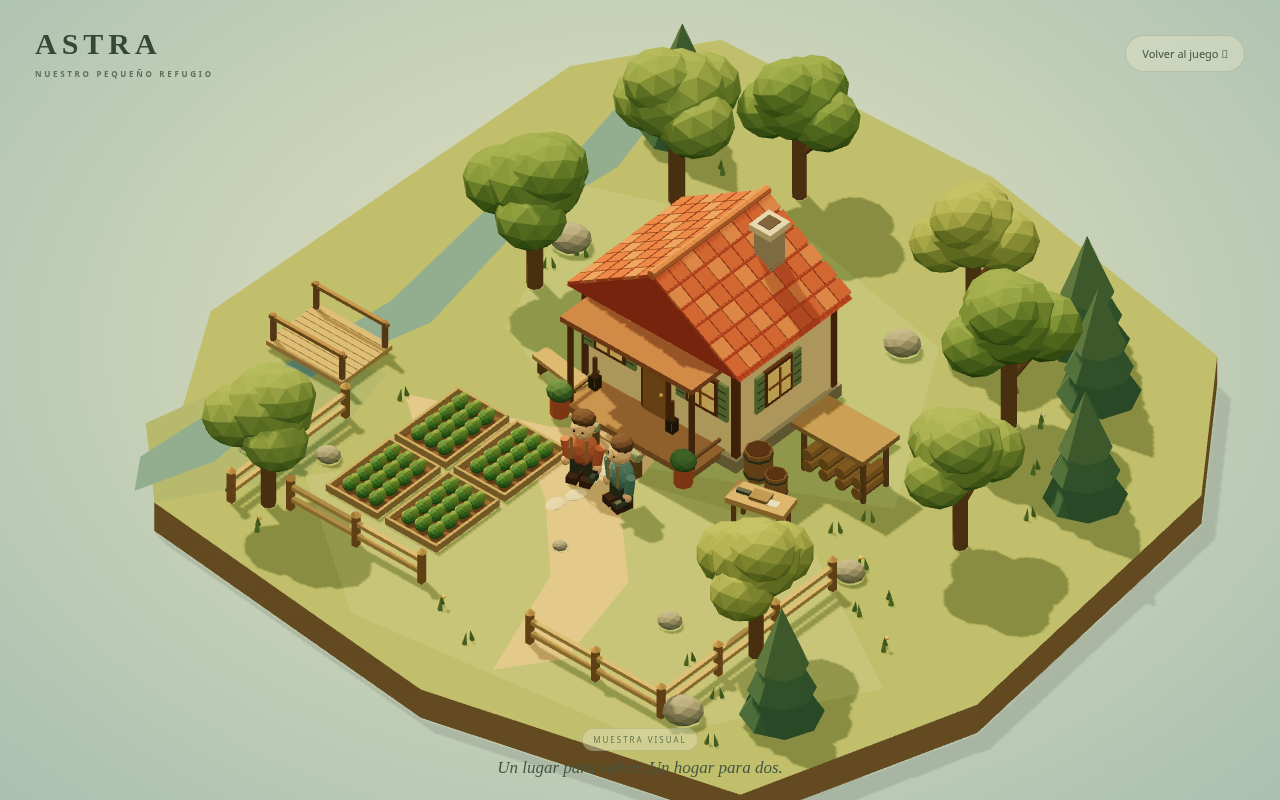
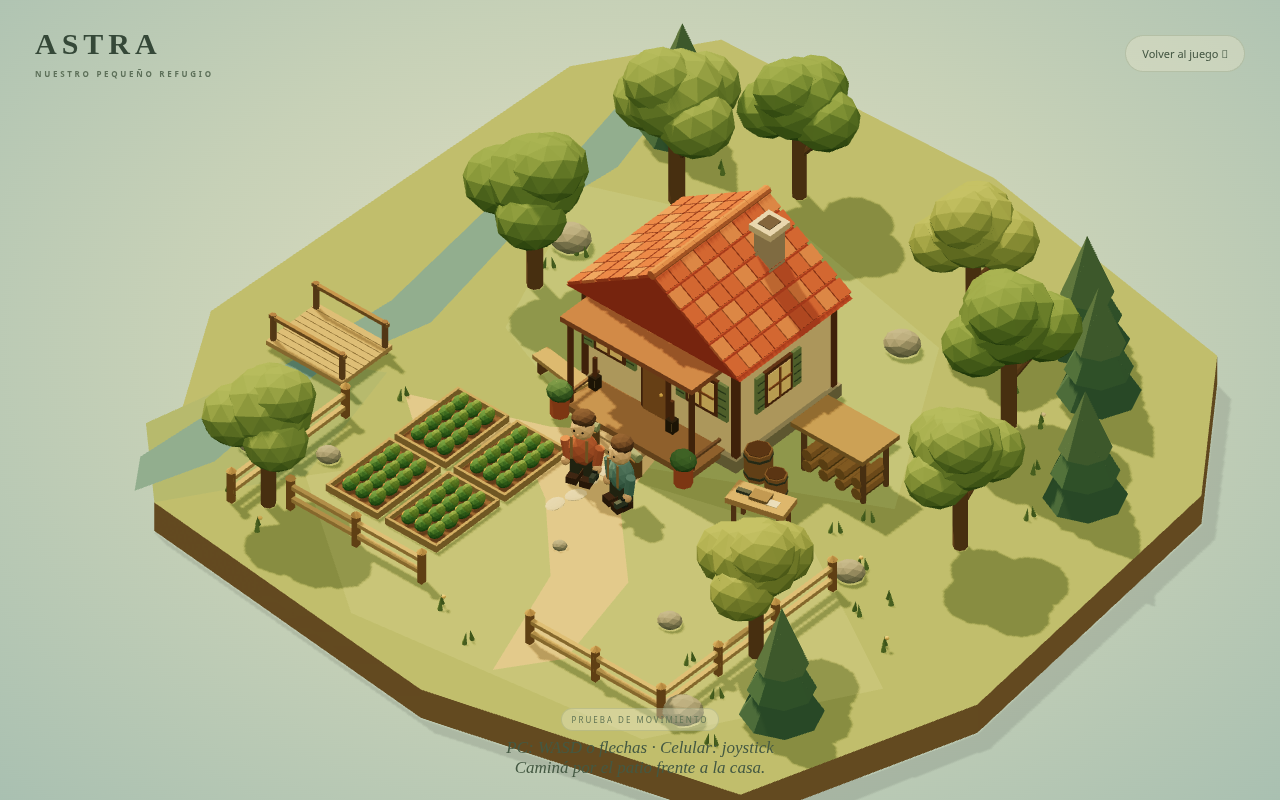
Add keyboard and touch walking to the 3D preview

Changed region(s): [[0.375, 0.875, 0.625, 0.9688]]

diff --git a/apps/client/src/visual/controls.ts b/apps/client/src/visual/controls.ts
@@ -1,0 +1,123 @@
+import type { VisualScene } from "./scene.js";
+
+/** Local preview input; never changes the authoritative game World. */
+export function bindWalking(scene: VisualScene): () => void {
+  const stick = document.createElement("div");
+  stick.className = "walking-stick";
+  stick.setAttribute("role", "slider");
+  stick.setAttribute("aria-label", "Mover personaje");
+  stick.setAttribute("aria-valuemin", "-1");
+  stick.setAttribute("aria-valuemax", "1");
+  stick.setAttribute("aria-valuenow", "0");
+  stick.tabIndex = 0;
+  const knob = document.createElement("span");
+  stick.append(knob);
+  document.body.append(stick);
+  const keys = new Set<string>();
+  let touchX = 0,
+    touchY = 0,
+    pointer: number | undefined;
+  let frame = 0,
+    last = 0,
+    dead = false;
+  const tick = (time: number) => {
+    frame = 0;
+    if (dead || document.hidden) return;
+    const x =
+      touchX ||
+      Number(keys.has("d") || keys.has("arrowright")) -
+        Number(keys.has("a") || keys.has("arrowleft"));
+    const y =
+      touchY ||
+      Number(keys.has("s") || keys.has("arrowdown")) -
+        Number(keys.has("w") || keys.has("arrowup"));
+    if (!x && !y) {
+      last = 0;
+      return;
+    }
+    scene.walk(x, y, last ? (time - last) / 1000 : 1 / 60);
+    last = time;
+    if (!dead) frame = requestAnimationFrame(tick);
+  };
+  const start = () => {
+    if (!frame && !dead) frame = requestAnimationFrame(tick);
+  };
+  const reset = () => {
+    keys.clear();
+    touchX = touchY = 0;
+    pointer = undefined;
+    knob.style.transform = "";
+    stick.setAttribute("aria-valuenow", "0");
+    cancelAnimationFrame(frame);
+    frame = last = 0;
+  };
+  const keydown = (event: KeyboardEvent) => {
+    if (
+      ![
+        "w",
+        "a",
+        "s",
+        "d",
+        "arrowup",
+        "arrowdown",
+        "arrowleft",
+        "arrowright",
+      ].includes(event.key.toLowerCase())
+    )
+      return;
+    if (
+      event.target instanceof HTMLInputElement ||
+      event.target instanceof HTMLTextAreaElement
+    )
+      return;
+    event.preventDefault();
+    keys.add(event.key.toLowerCase());
+    start();
+  };
+  const keyup = (event: KeyboardEvent) => {
+    keys.delete(event.key.toLowerCase());
+  };
+  const move = (event: PointerEvent) => {
+    if (event.pointerId !== pointer) return;
+    const box = stick.getBoundingClientRect();
+    const x = (event.clientX - box.x - box.width / 2) / 38;
+    const y = (event.clientY - box.y - box.height / 2) / 38;
+    const length = Math.max(1, Math.hypot(x, y));
+    touchX = x / length;
+    touchY = y / length;
+    if (Math.hypot(x, y) < 0.12) touchX = touchY = 0;
+    knob.style.transform = `translate(${touchX * 32}px, ${touchY * 32}px)`;
+    stick.setAttribute("aria-valuenow", touchX.toFixed(2));
+    start();
+  };
+  const down = (event: PointerEvent) => {
+    if (pointer !== undefined) return;
+    pointer = event.pointerId;
+    if (stick.hasPointerCapture(event.pointerId) || event.isTrusted)
+      stick.setPointerCapture(event.pointerId);
+    move(event);
+  };
+  const release = (event: PointerEvent) => {
+    if (event.pointerId === pointer) reset();
+  };
+  window.addEventListener("keydown", keydown);
+  window.addEventListener("keyup", keyup);
+  window.addEventListener("blur", reset);
+  document.addEventListener("visibilitychange", reset);
+  window.addEventListener("pagehide", reset);
+  stick.addEventListener("pointerdown", down);
+  stick.addEventListener("pointermove", move);
+  stick.addEventListener("pointerup", release);
+  stick.addEventListener("pointercancel", release);
+  stick.addEventListener("lostpointercapture", release);
+  return () => {
+    dead = true;
+    reset();
+    stick.remove();
+    window.removeEventListener("keydown", keydown);
+    window.removeEventListener("keyup", keyup);
+    window.removeEventListener("blur", reset);
+    document.removeEventListener("visibilitychange", reset);
+    window.removeEventListener("pagehide", reset);
+  };
+}

diff --git a/tests/e2e/visual.spec.ts b/tests/e2e/visual.spec.ts
@@ -100,3 +100,53 @@ for (const phase of ["initial", "resize"])
     await expect(page.locator("canvas")).toHaveCount(0);
     expect(errors).toEqual([]);
   });
+test("keyboard walking moves the farmer and stops after releasing", async ({
+  page,
+}) => {
+  await page.goto("/visual.html");
+  const canvas = page.locator('canvas[data-ready="true"]');
+  await expect(canvas).toBeVisible();
+  const start = await canvas.getAttribute("data-player-x");
+  await page.keyboard.down("d");
+  await expect.poll(() => canvas.getAttribute("data-player-x")).not.toBe(start);
+  await page.keyboard.up("d");
+  await page.waitForTimeout(100);
+  const stopped = await canvas.getAttribute("data-player-x");
+  await page.waitForTimeout(200);
+  expect(await canvas.getAttribute("data-player-x")).toBe(stopped);
+  expect(await page.evaluate(() => window.astraVisual!.worldUnchanged)).toBe(
+    true,
+  );
+});
+test("touch joystick moves and stops on release", async ({ browser }) => {
+  const context = await browser.newContext({
+    viewport: { width: 844, height: 390 },
+    hasTouch: true,
+  });
+  const page = await context.newPage();
+  await page.goto("http://127.0.0.1:5180/visual.html");
+  const joystick = page.getByRole("slider", { name: "Mover personaje" });
+  await expect(joystick).toBeVisible();
+  const canvas = page.locator("canvas");
+  const start = await canvas.getAttribute("data-player-x");
+  const box = (await joystick.boundingBox())!;
+  await joystick.dispatchEvent("pointerdown", {
+    pointerId: 1,
+    pointerType: "touch",
+    clientX: box.x + box.width / 2,
+    clientY: box.y + box.height / 2,
+  });
+  await joystick.dispatchEvent("pointermove", {
+    pointerId: 1,
+    pointerType: "touch",
+    clientX: box.x + box.width,
+    clientY: box.y + box.height / 2,
+  });
+  await expect.poll(() => canvas.getAttribute("data-player-x")).not.toBe(start);
+  await joystick.dispatchEvent("pointercancel", { pointerId: 1 });
+  await page.waitForTimeout(100);
+  const stopped = await canvas.getAttribute("data-player-x");
+  await page.waitForTimeout(200);
+  expect(await canvas.getAttribute("data-player-x")).toBe(stopped);
+  await context.close();
+});

diff --git a/apps/client/src/visual/scene.ts b/apps/client/src/visual/scene.ts
@@ -12,6 +12,7 @@ import {
   createBarrel,
 } from "./models.js";
 export interface VisualScene {
+  walk(x: number, y: number, seconds: number): void;
   resize(): void;
   dispose(): void;
 }
@@ -220,7 +221,7 @@ export function createVisualScene(
     world.crops.forEach((crop, i) =>
       place(createCropPlot(kit, i), crop.x, crop.y),
     );
-    Object.values(world.players).forEach((p, i) =>
+    const farmers = Object.values(world.players).map((p, i) =>
       place(
         createFarmer(i === 0 ? 0xbd704d : 0x638d8b, kit),
         p.x,
@@ -378,7 +379,40 @@ export function createVisualScene(
     observer = new ResizeObserver(safeResize);
     observer.observe(container);
     renderer.domElement.addEventListener("webglcontextlost", lose);
-    return { resize: safeResize, dispose };
+    const player = farmers[0];
+    const publish = () => {
+      renderer.domElement.dataset.playerX = player.position.x.toFixed(3);
+      renderer.domElement.dataset.playerZ = player.position.z.toFixed(3);
+    };
+    publish();
+    const walk = (x: number, y: number, seconds: number) => {
+      if (disposed || !player || (!x && !y)) return;
+      const length = Math.max(1, Math.hypot(x, y));
+      // Camera-aligned input: right follows screen right, up follows screen up.
+      const dx = (x * 0.8 + y * 0.6) / length;
+      const dz = (-x * 0.6 + y * 0.8) / length;
+      const distance = Math.min(seconds, 0.05) * 3.2;
+      // This checkpoint keeps walking in the clear yard in front of the house.
+      player.position.x = THREE.MathUtils.clamp(
+        player.position.x + dx * distance,
+        9,
+        12.8,
+      );
+      player.position.z = THREE.MathUtils.clamp(
+        player.position.z + dz * distance,
+        13,
+        18,
+      );
+      player.rotation.y = Math.atan2(dx, dz);
+      publish();
+      try {
+        renderer.render(scene, camera);
+      } catch {
+        dispose();
+        container.dispatchEvent(new CustomEvent("visual-context-lost"));
+      }
+    };
+    return { walk, resize: safeResize, dispose };
   } catch (error) {
     dispose();
     throw error;

diff --git a/apps/client/src/visual.ts b/apps/client/src/visual.ts
@@ -1,3 +1,4 @@
+import { bindWalking } from "./visual/controls.js";
 import { createWorld, addPlayer } from "../../../packages/shared/src/world.js";
 import { createVisualScene, type VisualScene } from "./visual/scene.js";
 import "./visual/visual.css";
@@ -27,7 +28,9 @@ world.crops.forEach((crop, i) =>
 const before = JSON.stringify(world);
 let scene: VisualScene | undefined,
   disposed = false;
+let unbindWalking: (() => void) | undefined;
 const dispose = () => {
+  unbindWalking?.();
   scene?.dispose();
   disposed = true;
   window.removeEventListener("pagehide", hide);
@@ -54,6 +57,7 @@ const lost = () => {
 };
 try {
   scene = createVisualScene(container, world);
+  unbindWalking = bindWalking(scene);
   container.addEventListener("visual-context-lost", lost);
   window.addEventListener("pagehide", hide);
   window.addEventListener("pageshow", show);

diff --git a/apps/client/src/visual/visual.css b/apps/client/src/visual/visual.css
@@ -142,3 +142,40 @@ footer p {
     font-size: 15px;
   }
 }
+.walking-stick {
+  display: none;
+  position: fixed;
+  left: max(22px, env(safe-area-inset-left));
+  bottom: max(25px, env(safe-area-inset-bottom));
+  width: 110px;
+  height: 110px;
+  border-radius: 50%;
+  border: 2px solid #fff8;
+  background: #304c3b35;
+  touch-action: none;
+  user-select: none;
+  z-index: 3;
+  align-items: center;
+  justify-content: center;
+}
+.walking-stick span {
+  width: 44px;
+  height: 44px;
+  border-radius: 50%;
+  background: #f4edd9bb;
+  box-shadow: 0 2px 8px #263c3440;
+  pointer-events: none;
+}
+@media (pointer: coarse) {
+  .walking-stick {
+    display: flex;
+  }
+  footer {
+    left: 140px;
+    right: 12px;
+  }
+  footer p {
+    font: 11px system-ui;
+    line-height: 1.6;
+  }
+}

diff --git a/apps/client/visual.html b/apps/client/visual.html
@@ -19,8 +19,11 @@
       aria-label="Muestra tridimensional de la casa y la huerta"
     ></main>
     <footer>
-      <span class="badge">MUESTRA VISUAL</span>
-      <p>Un lugar para volver. Un hogar para dos.</p>
+      <span class="badge">PRUEBA DE MOVIMIENTO</span>
+      <p>
+        PC: WASD o flechas · Celular: joystick<br />Caminá por el patio frente a
+        la casa.
+      </p>
     </footer>
     <script type="module" src="/src/visual.ts"></script>
   </body>

diff --git a/docs/superpowers/execution/2026-10-12-visual-walking.md b/docs/superpowers/execution/2026-10-12-visual-walking.md
@@ -1,0 +1,9 @@
+# Prueba local de movimiento 3D
+
+El usuario aprobó hacer caminable la escena existente con teclado en PC y control táctil en celular, manteniendo checkpoints cortos. Implementación acotada sobre `/visual.html`: cámara fija, controles alineados con la pantalla, personaje naranja móvil y segundo personaje estático. World permanece sin modificaciones; no hay conexión al multijugador.
+
+El personaje recorre el patio despejado (x 9–12.8, z 13–18). Este límite evita atravesar los modelos hasta implementar colisiones del mapa completo. Movimiento a 3.2 unidades por segundo, diagonales normalizadas y tiempo de frame limitado. No hay animación de pasos aún. Joystick con Pointer Events, captura táctil y cancelación; liberación, pérdida de foco, ocultamiento y pagehide limpian la entrada. Renderizado durante el movimiento, sin loop al estar quieto.
+
+Validación RED→GREEN: dos pruebas nuevas fallaron antes de implementar controles, luego pasaron movimiento con teclado y joystick y detención al liberar/cancelar. Resultado final: 25 pruebas unitarias/integración, 9 pruebas de navegador visuales y build exitosos. Las capturas son renders reales; celulares físicos pendientes de probar. La suite conserva comprobaciones de WebGL, fallos gráficos, BFCache, disposición y entrada del juego original.
+
+Entrega en main; detener el trabajo en este checkpoint para que el usuario pruebe los controles.

diff --git a/docs/art/README.md b/docs/art/README.md
@@ -17,3 +17,9 @@ Estas capturas son del render Three.js de la muestra `/visual.html`. Es una esce
 ![Escena real en viewport móvil](visual-mobile.png)
 
 La muestra usa modelos originales por geometría, cámara ortográfica, iluminación y sombras. La captura emulada no confirma rendimiento ni compatibilidad de teléfonos reales.
+
+## Prueba de movimiento
+
+La página `/visual.html` permite mover al personaje naranja por el patio frente a la casa con WASD o flechas en PC y joystick en pantallas táctiles. El segundo personaje permanece quieto. La cámara es fija; esta prueba local todavía no está conectada a las partidas ni al multijugador. El área caminable está limitada al patio para probar los controles antes de ampliar el mapa y sus colisiones. No hay animación de pasos todavía.
+
+Al soltar el control, cambiar de ventana o ocultar la página, el movimiento se detiene. El renderizado se actualiza mientras se camina; la escena permanece en reposo cuando no hay movimiento. Las pruebas con viewport móvil no sustituyen probar en teléfonos reales.
